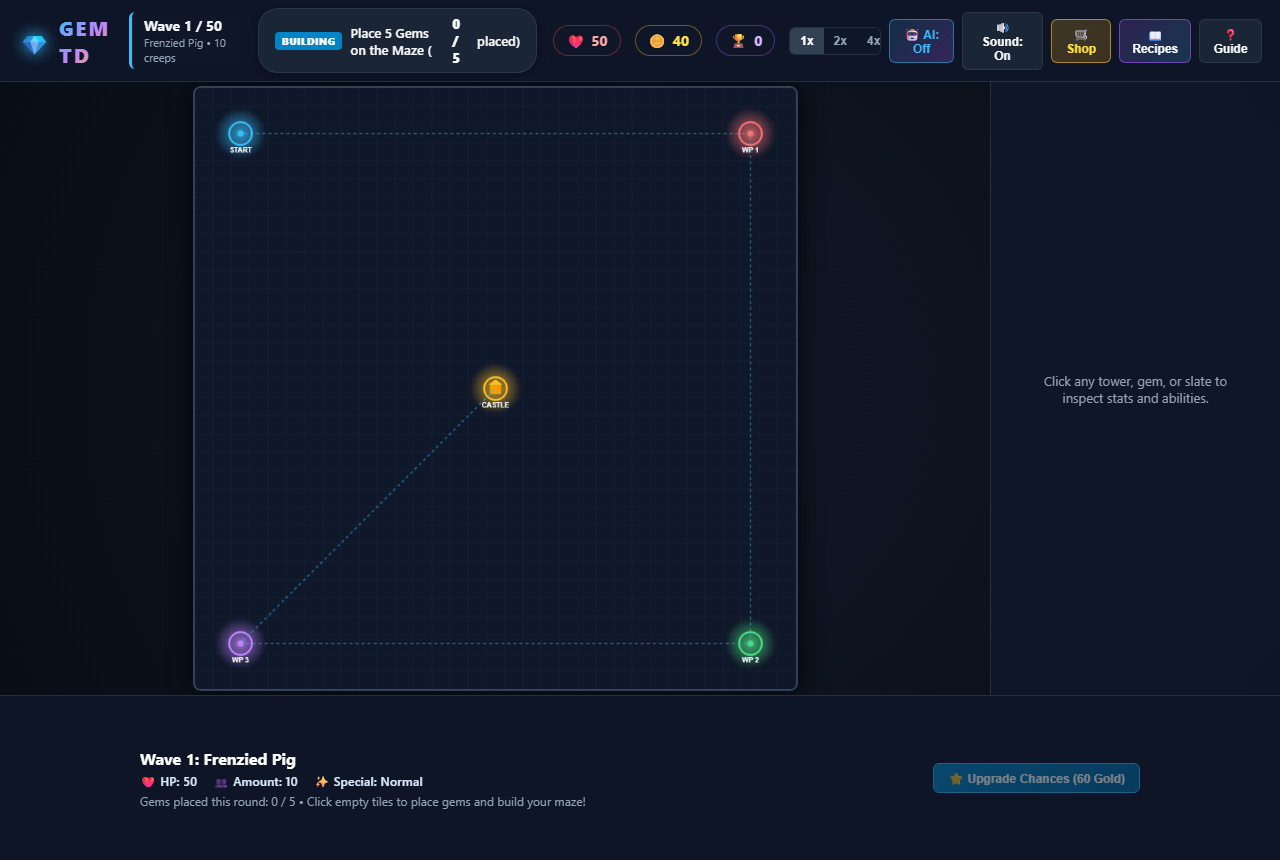
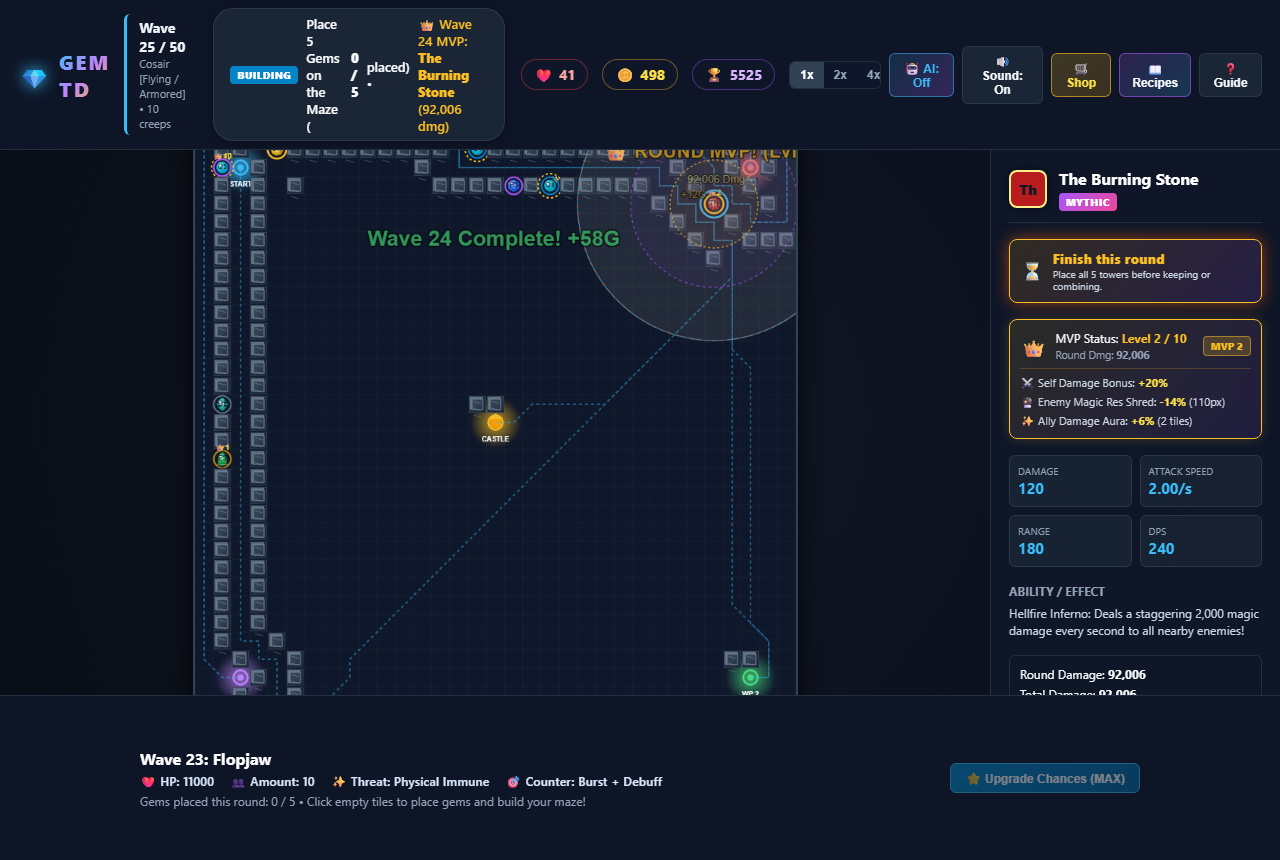
feat(game): enforce gem placement limit per round and add milestone rewards feat(ui): enhance wave threat summary and recommended tower role display fix(ui): update combine actions visibility based on gem placement status chore: update wave25 victory image

diff --git a/js/config.js b/js/config.js
@@ -196,16 +196,18 @@ export const BASE_GEMS = {
     name: 'Sapphire',
     gemColor: '#2563eb',
     accentColor: '#93c5fd',
-    damageType: 'magic', // Cold magic damage
+    damageType: 'magic',
     element: 'frost',
     attackStyle: 'Glacial Slow',
     description: 'Chills targets with sub-zero frost, reducing movement speed.',
+    role: 'Control',
+    roleHint: 'Best for slowing, stalling, and controlling long lanes.',
     baseDamage: [0, 8, 20, 50, 120, 300],
-    attackSpeed: [0, 1.0, 1.0, 1.0, 1.0, 1.0], // attacks per second
+    attackSpeed: [0, 1.0, 1.0, 1.0, 1.0, 1.0],
     range: [0, 140, 150, 160, 175, 190],
     effect: 'slow',
-    effectValue: [0, 0.20, 0.30, 0.40, 0.50, 0.60], // slow percentage
-    effectDuration: [0, 3.0, 3.5, 4.0, 4.5, 5.0] // seconds
+    effectValue: [0, 0.20, 0.30, 0.40, 0.50, 0.60],
+    effectDuration: [0, 3.0, 3.5, 4.0, 4.5, 5.0]
   },
   'D': {
     code: 'D',
@@ -216,6 +218,8 @@ export const BASE_GEMS = {
     element: 'pierce',
     attackStyle: 'Piercing Strike',
     description: 'High physical single-target piercing damage that never misses.',
+    role: 'Burst',
+    roleHint: 'Best for clean single-target damage and boss pressure.',
     baseDamage: [0, 20, 50, 130, 320, 800],
     attackSpeed: [0, 1.1, 1.1, 1.2, 1.25, 1.3],
     range: [0, 150, 160, 175, 190, 210],
@@ -230,26 +234,30 @@ export const BASE_GEMS = {
     element: 'lightning',
     attackStyle: 'Multi-Target Volley',
     description: 'Multi-shot arrows hitting multiple targets simultaneously.',
+    role: 'Area',
+    roleHint: 'Best for clearing swarms and softening grouped enemies.',
     baseDamage: [0, 8, 20, 50, 120, 300],
     attackSpeed: [0, 1.0, 1.0, 1.0, 1.0, 1.0],
     range: [0, 140, 150, 160, 175, 190],
     effect: 'multishot',
-    effectValue: [0, 2, 3, 4, 5, 6] // targets
+    effectValue: [0, 2, 3, 4, 5, 6]
   },
   'E': {
     code: 'E',
     name: 'Emerald',
     gemColor: '#16a34a',
     accentColor: '#86efac',
-    damageType: 'magic', // Poison magic damage
+    damageType: 'magic',
     element: 'poison',
     attackStyle: 'Deadly Venom',
     description: 'Inflicts deadly poison that deals continuous damage over time.',
+    role: 'DoT',
+    roleHint: 'Best for attrition and grinding down tanky waves.',
     baseDamage: [0, 8, 20, 50, 120, 300],
     attackSpeed: [0, 1.0, 1.0, 1.0, 1.0, 1.0],
     range: [0, 140, 150, 160, 175, 190],
     effect: 'poison',
-    effectValue: [0, 6, 16, 45, 110, 280], // damage per sec
+    effectValue: [0, 6, 16, 45, 110, 280],
     effectDuration: [0, 4.0, 4.0, 4.0, 4.5, 5.0]
   },
   'G': {
@@ -261,11 +269,13 @@ export const BASE_GEMS = {
     element: 'haste',
     attackStyle: 'Haste Aura',
     description: 'Emits an attack speed aura buffing all nearby allied towers.',
+    role: 'Support',
+    roleHint: 'Best for supporting a whole cluster of towers.',
     baseDamage: [0, 10, 25, 65, 160, 400],
     attackSpeed: [0, 1.0, 1.0, 1.0, 1.0, 1.0],
     range: [0, 130, 140, 150, 165, 180],
     effect: 'aura_speed',
-    effectValue: [0, 0.15, 0.25, 0.35, 0.50, 0.70], // +% attack speed
+    effectValue: [0, 0.15, 0.25, 0.35, 0.50, 0.70],
     effectRadius: [0, 110, 120, 135, 150, 170]
   },
   'Q': {
@@ -277,42 +287,48 @@ export const BASE_GEMS = {
     element: 'water',
     attackStyle: 'Anti-Air Hydro',
     description: 'Rapid-fire hydro bolts with massive bonus damage against flying units.',
+    role: 'Anti-Air',
+    roleHint: 'Best against flying swarms and aerial bosses.',
     baseDamage: [0, 7, 18, 45, 110, 270],
-    attackSpeed: [0, 2.0, 2.2, 2.4, 2.7, 3.0], // very fast attack speed
+    attackSpeed: [0, 2.0, 2.2, 2.4, 2.7, 3.0],
     range: [0, 130, 140, 150, 165, 180],
     effect: 'anti_air',
-    effectValue: [0, 1.5, 1.75, 2.0, 2.5, 3.0] // damage multiplier vs flying
+    effectValue: [0, 1.5, 1.75, 2.0, 2.5, 3.0]
   },
   'R': {
     code: 'R',
     name: 'Ruby',
     gemColor: '#dc2626',
     accentColor: '#fca5a5',
-    damageType: 'magic', // Fire magic damage
+    damageType: 'magic',
     element: 'fire',
     attackStyle: 'Fireball Splash',
     description: 'Explosive fiery missiles that deal area of effect (AoE) splash damage.',
+    role: 'Splash',
+    roleHint: 'Best for clustered enemies and breaking packs quickly.',
     baseDamage: [0, 10, 25, 65, 160, 400],
     attackSpeed: [0, 0.9, 0.9, 0.95, 1.0, 1.05],
     range: [0, 130, 140, 150, 165, 180],
     effect: 'splash',
     effectRadius: [0, 45, 50, 60, 70, 85],
-    effectValue: [0, 0.5, 0.5, 0.5, 0.5, 0.5] // % splash damage
+    effectValue: [0, 0.5, 0.5, 0.5, 0.5, 0.5]
   },
   'P': {
     code: 'P',
     name: 'Amethyst',
     gemColor: '#9333ea',
     accentColor: '#d8b4fe',
-    damageType: 'magic', // Arcane magic damage (armor sunder is a magic debuff)
+    damageType: 'magic',
     element: 'arcane',
     attackStyle: 'Armor Sunder',
     description: 'Shatters enemy armor, causing them to take increased damage from all towers.',
+    role: 'Debuff',
+    roleHint: 'Best for armor shredding and enabling glassier towers.',
     baseDamage: [0, 8, 20, 50, 120, 300],
     attackSpeed: [0, 1.0, 1.0, 1.0, 1.0, 1.0],
     range: [0, 140, 150, 160, 175, 190],
     effect: 'armor_shred',
-    effectValue: [0, 2, 4, 7, 11, 16], // armor reduction
+    effectValue: [0, 2, 4, 7, 11, 16],
     effectDuration: [0, 4.0, 4.0, 4.0, 4.5, 5.0]
   }
 };

diff --git a/js/ui.js b/js/ui.js
@@ -585,6 +585,22 @@ export class UIController {
     }
   }
 
+  getWaveThreatSummary(waveData) {
+    const threatTags = [];
+    if (waveData.isBoss) threatTags.push('Boss');
+    if (waveData.isFlying) threatTags.push('Flying');
+    if (waveData.trait && waveData.trait.trim()) threatTags.push(waveData.trait);
+    return threatTags.length ? threatTags.join(' • ') : 'Standard';
+  }
+
+  getRecommendedTowerRole(waveData) {
+    if (waveData.isFlying) return 'Anti-Air';
+    if (waveData.trait && /magic immune|physical immune/i.test(waveData.trait)) return 'Burst + Debuff';
+    if (waveData.isBoss) return 'Burst + Control';
+    if (waveData.trait && /evasion|armored|reactive/i.test(waveData.trait)) return 'Burst + Support';
+    return 'Balanced';
+  }
+
   updateHUD() {
     const wave = this.game.currentWave;
     if (this._lastHudWave !== wave) {
@@ -642,11 +658,8 @@ export class UIController {
     if (!dock) return;
 
     const waveData = this.game.getWaveData();
-    const waveSpecialInfo = [];
-    if (waveData.isBoss) waveSpecialInfo.push('Boss');
-    if (waveData.isFlying) waveSpecialInfo.push('Flying');
-    if (waveData.trait && waveData.trait.trim()) waveSpecialInfo.push(waveData.trait);
-    const specialText = waveSpecialInfo.length ? waveSpecialInfo.join(' • ') : 'Normal';
+    const specialText = this.getWaveThreatSummary(waveData);
+    const recommendedRole = this.getRecommendedTowerRole(waveData);
 
     if (this.game.phase === GAME_PHASES.BUILDING) {
       const placed = this.game.placedGemsThisTurn.length;
@@ -660,7 +673,8 @@ export class UIController {
             <div class="wave-stat-strip">
               <span>❤ HP: ${waveData.hp}</span>
               <span>👥 Amount: ${waveData.count}</span>
-              <span>✨ Special: ${specialText}</span>
+              <span>✨ Threat: ${specialText}</span>
+              <span>🎯 Counter: ${recommendedRole}</span>
             </div>
             <span class="dock-desc">Gems placed this round: ${placed} / 5 • Click empty tiles to place gems and build your maze!</span>
           </div>
@@ -756,7 +770,8 @@ export class UIController {
             <div class="wave-stat-strip">
               <span>❤ HP: ${waveData.hp}</span>
               <span>👥 Amount: ${waveData.count}</span>
-              <span>✨ Special: ${specialText}</span>
+              <span>✨ Threat: ${specialText}</span>
+              <span>🎯 Counter: ${recommendedRole}</span>
             </div>
             <span class="dock-desc">Towers are defending the castle against the invaders!</span>
           </div>
@@ -802,12 +817,13 @@ export class UIController {
     const q = QUALITIES[t.level];
     const tierBadge = t.isSpecial ? `<span class="badge special">${t.tier}</span>` : `<span class="badge tier" style="background: ${q ? q.border : '#334155'}">${q ? q.namePrefix : ''}</span>`;
     const isTempGem = this.game.placedGemsThisTurn.includes(t);
-    const isUnconfirmedGem = this.game.phase === GAME_PHASES.CHOOSING && isTempGem;
+    const canFinalizeRound = this.game.phase === GAME_PHASES.CHOOSING && this.game.placedGemsThisTurn.length >= CONFIG.GEMS_PER_ROUND;
+    const isUnconfirmedGem = canFinalizeRound && isTempGem;
     const unconfirmedIdx = isUnconfirmedGem ? this.game.placedGemsThisTurn.indexOf(t) : -1;
 
     const combinations = this.game.getCombinationsForTower(t);
     let combinationsHtml = '';
-    if (combinations.length > 0) {
+    if (canFinalizeRound && combinations.length > 0) {
       combinationsHtml = `
         <div class="combine-ready-section">
           <div class="combine-ready-header">
@@ -844,6 +860,18 @@ export class UIController {
                 `;
               }
             }).join('')}
+          </div>
+        </div>
+      `;
+    } else if (!canFinalizeRound && this.game.phase === GAME_PHASES.BUILDING) {
+      combinationsHtml = `
+        <div class="combine-ready-section">
+          <div class="combine-ready-header">
+            <span class="combine-badge-icon">⏳</span>
+            <div class="combine-ready-text">
+              <span class="combine-ready-title">Finish this round</span>
+              <span class="combine-ready-hint">Place all ${CONFIG.GEMS_PER_ROUND} towers before keeping or combining.</span>
+            </div>
           </div>
         </div>
       `;
@@ -985,7 +1013,13 @@ export class UIController {
             ✓ Keep as Active Tower
           </button>
         </div>
-      ` : ''}
+      ` : (this.game.phase === GAME_PHASES.BUILDING ? `
+        <div class="actions" style="margin-top: 8px;">
+          <button type="button" class="game-btn primary" disabled style="width: 100%; padding: 8px;">
+            Place all ${CONFIG.GEMS_PER_ROUND} towers to choose a keeper
+          </button>
+        </div>
+      ` : '')}
     `;
   }
 

diff --git a/js/game.js b/js/game.js
@@ -196,6 +196,7 @@ export class Game {
    */
   keepGem(chosenTower) {
     if (this.phase !== GAME_PHASES.CHOOSING) return false;
+    if (this.placedGemsThisTurn.length < CONFIG.GEMS_PER_ROUND) return false;
     if (!this.placedGemsThisTurn.includes(chosenTower)) return false;
 
     // Turn all unchosen newly placed gems into slates
@@ -249,6 +250,11 @@ export class Game {
    * Craft a special tower recipe
    */
   craftSpecialTower(recipeName, targetTileX, targetTileY) {
+    if (this.phase !== GAME_PHASES.CHOOSING || this.placedGemsThisTurn.length < CONFIG.GEMS_PER_ROUND) {
+      SOUND.playError();
+      return false;
+    }
+
     const def = SPECIAL_TOWERS[recipeName];
     if (!def) return false;
 
@@ -321,6 +327,11 @@ export class Game {
    * Apply duplicate upgrade (pair or quad)
    */
   applyDuplicateUpgrade(upgrade) {
+    if (this.phase !== GAME_PHASES.CHOOSING || this.placedGemsThisTurn.length < CONFIG.GEMS_PER_ROUND) {
+      SOUND.playError();
+      return false;
+    }
+
     const { gems, targetLevel, gemCode } = upgrade;
     const keepTower = gems[0];
     const consumed = gems.slice(1);
@@ -397,6 +408,11 @@ export class Game {
    * and the partner towers turn into stone slates!
    */
   combineAtTower(tower, combination) {
+    if (this.phase !== GAME_PHASES.CHOOSING || this.placedGemsThisTurn.length < CONFIG.GEMS_PER_ROUND) {
+      SOUND.playError();
+      return false;
+    }
+
     if (!tower || !combination) return false;
 
     const { partnerTowers } = combination;
@@ -1029,6 +1045,13 @@ export class Game {
     const waveBonus = 10 + this.currentWave * 2;
     this.gold += waveBonus;
     this.addFloatingText(this.width / 2 || 400, 200, `Wave ${this.currentWave} Complete! +${waveBonus}G`, '#4ade80', 20, true);
+
+    if (this.currentWave % 10 === 0) {
+      const milestoneGold = 75 + this.currentWave * 3;
+      this.gold += milestoneGold;
+      this.chanceLevel = Math.min(this.chanceLevel + 1, CONFIG.CHANCE_UPGRADES.length - 1);
+      this.addFloatingText(this.width / 2 || 400, 230, `Milestone Reward! +${milestoneGold}G • Rarity Up`, '#fbbf24', 18, true);
+    }
 
     // Calculate Round MVP Tower based on waveDamageDealt
     const activeTowers = this.getAllGems().filter(t => !t.isSlate);
